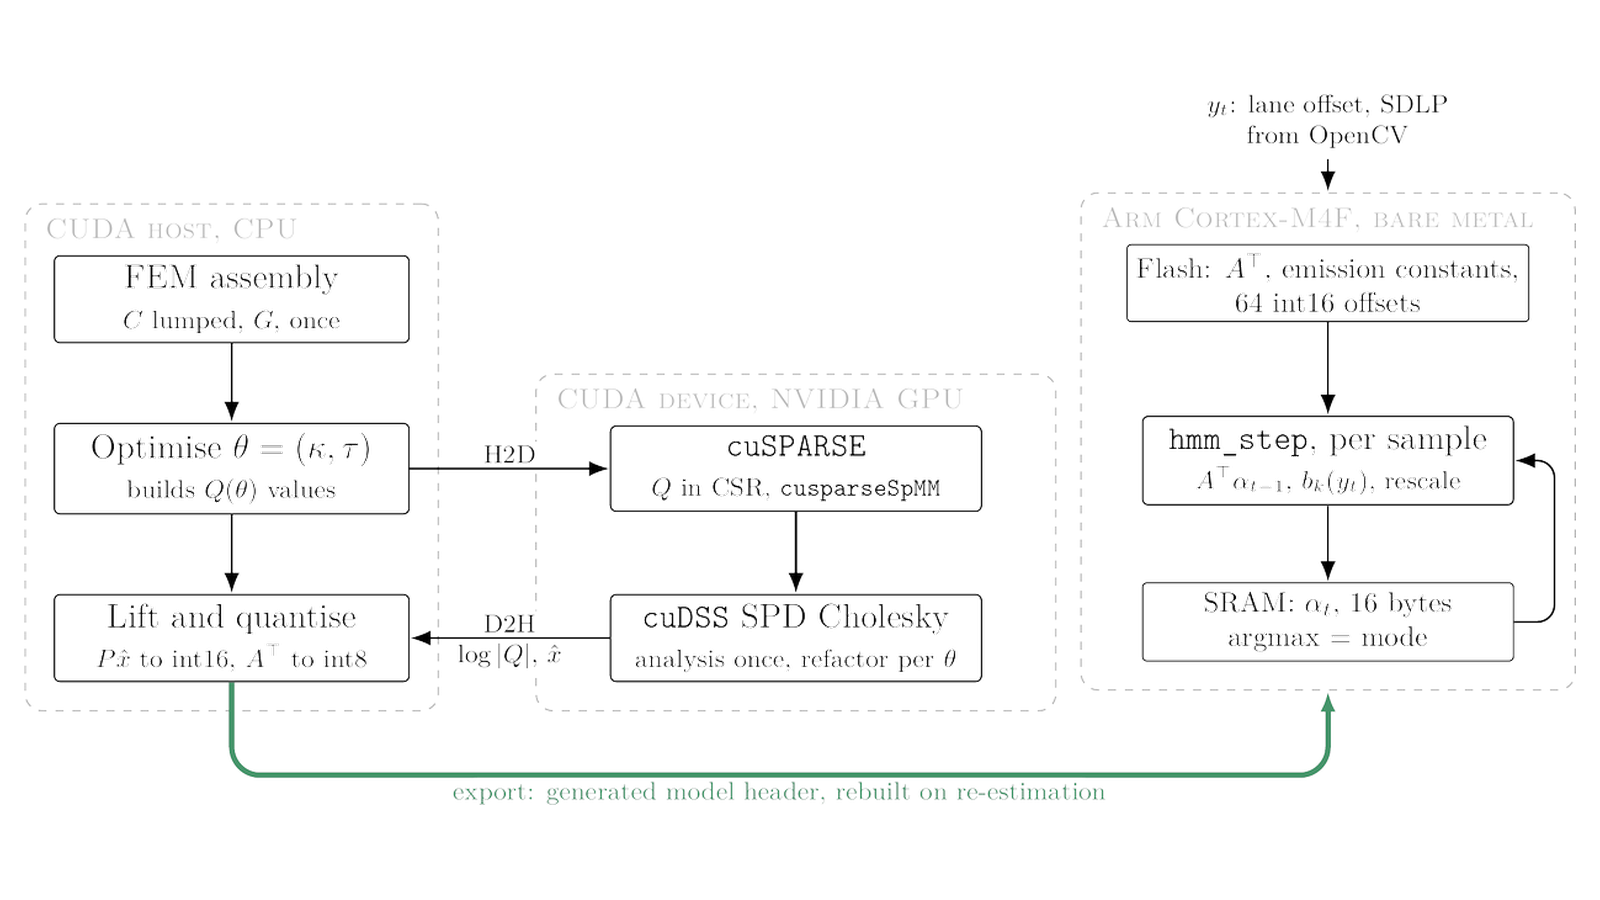
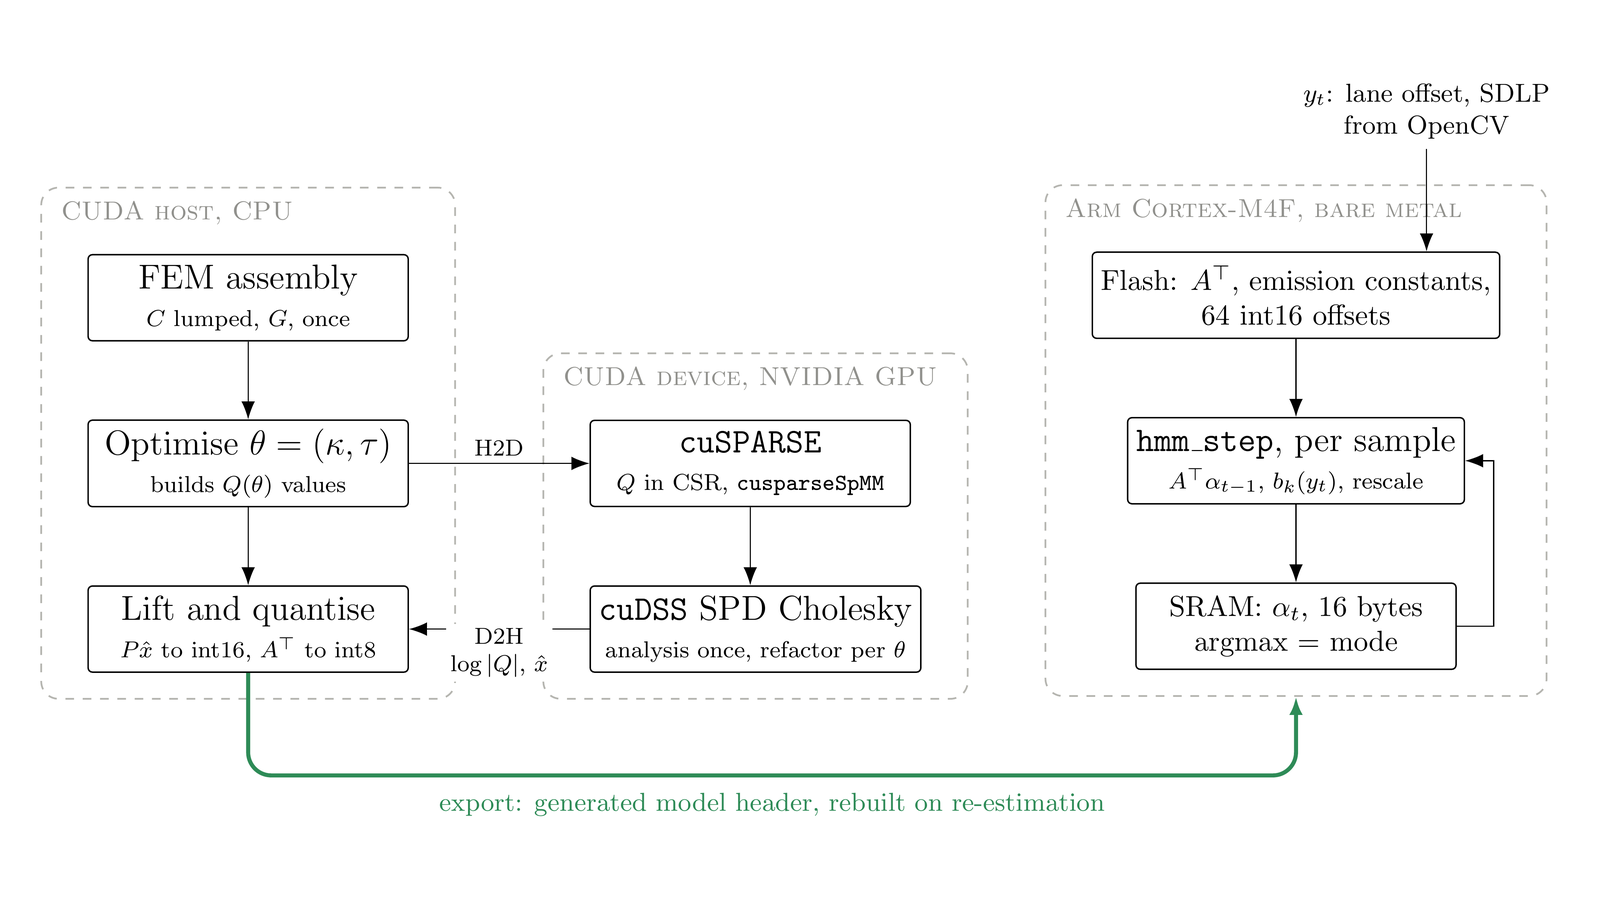
SPDE thumbnail: add TikZ source and build script, render on white with white-filled boxes

diff --git a/landing/diagrams/thumb-spde.tex b/landing/diagrams/thumb-spde.tex
@@ -1,0 +1,54 @@
+% Source for landing/public/thumbs/thumb-spde.png (card: Split SPDE-GMRF inference for lane perception).
+% Build: landing/diagrams/build.sh thumb-spde
+\documentclass[border=14pt]{standalone}
+\usepackage{amsmath,amssymb}
+\usepackage{tikz}
+\usetikzlibrary{arrows.meta,positioning,fit,backgrounds,calc}
+\definecolor{grp}{HTML}{B5B5B0}
+\definecolor{exp}{HTML}{2E8B57}
+\begin{document}
+\begin{tikzpicture}[
+  >={Latex[length=2.2mm]},
+  box/.style={draw=black, fill=white, rounded corners=1.5pt, line width=0.5pt,
+              minimum width=3.9cm, minimum height=1.05cm, align=center, inner sep=3pt},
+  grp/.style={draw=grp, dashed, rounded corners=6pt, line width=0.6pt, inner sep=9pt, inner xsep=16pt},
+  gl/.style={text=grp!80!black, font=\scshape\small, anchor=north west, inner sep=2pt, xshift=5pt, yshift=-3pt},
+  sub/.style={font=\footnotesize},
+  lbl/.style={font=\footnotesize, fill=white, inner sep=1.5pt},
+]
+% CUDA host
+\node[box] (fem) at (0,0) {\large FEM assembly\\[1pt]{\footnotesize $C$ lumped, $G$, once}};
+\node[box, below=0.95cm of fem] (opt) {\large Optimise $\theta=(\kappa,\tau)$\\[1pt]{\footnotesize builds $Q(\theta)$ values}};
+\node[box, below=0.95cm of opt] (lift) {\large Lift and quantise\\[1pt]{\footnotesize $P\hat{x}$ to int16, $A^{\top}$ to int8}};
+% GPU
+\node[box, right=2.2cm of opt] (sp) {\large\texttt{cuSPARSE}\\[1pt]{\footnotesize $Q$ in CSR, \texttt{cusparseSpMM}}};
+\node[box, right=2.2cm of lift] (chol) {\large\texttt{cuDSS} SPD Cholesky\\[1pt]{\footnotesize analysis once, refactor per $\theta$}};
+% Cortex-M4F
+\node[box, right=2.2cm of sp, yshift=2.05cm] (flash) {Flash: $A^{\top}$, emission constants,\\64 int16 offsets};
+\node[box, below=0.95cm of flash] (hmm) {\large\texttt{hmm\_step}, per sample\\[1pt]{\footnotesize $A^{\top}\alpha_{t-1}$, $b_k(y_t)$, rescale}};
+\node[box, below=0.95cm of hmm] (sram) {SRAM: $\alpha_t$, 16 bytes\\argmax $=$ mode};
+\coordinate (yin) at ($(flash.north east)+(-0.9,0)$);
+\node[above=1.25cm of yin, align=center, font=\small] (yt) {$y_t$: lane offset, SDLP\\from OpenCV};
+
+\begin{scope}[on background layer]
+  \node[grp, fit=(fem)(lift), yshift=7pt, inner ysep=16pt] (g1) {};
+  \node[grp, fit=(sp)(chol), yshift=7pt, inner ysep=16pt] (g2) {};
+  \node[grp, fit=(flash)(sram), yshift=7pt, inner ysep=16pt] (g3) {};
+\end{scope}
+\node[gl] at (g1.north west) {CUDA host, CPU};
+\node[gl] at (g2.north west) {CUDA device, NVIDIA GPU};
+\node[gl] at (g3.north west) {Arm Cortex-M4F, bare metal};
+
+\draw[->] (fem) -- (opt);
+\draw[->] (opt) -- (lift);
+\draw[->] (opt) -- node[lbl, above=1pt] {H2D} (sp);
+\draw[->] (sp.south) -- (sp.south |- chol.north);
+\draw[->] (chol) -- node[lbl, align=center, below=-2pt] {D2H\\$\log|Q|$, $\hat{x}$} (lift);
+\draw[->] (yt.south) -- (yin);
+\draw[->] (flash) -- (hmm);
+\draw[->] (hmm) -- (sram);
+\draw[->] (sram.east) -- ++(0.45,0) |- (hmm.east);
+\draw[->, exp, line width=1.4pt, rounded corners=8pt]
+  (lift.south) -- ($(lift.south)+(0,-1.25)$) -| node[pos=0.25, below=2pt, font=\small, text=exp] {export: generated model header, rebuilt on re-estimation} (g3.south);
+\end{tikzpicture}
+\end{document}
